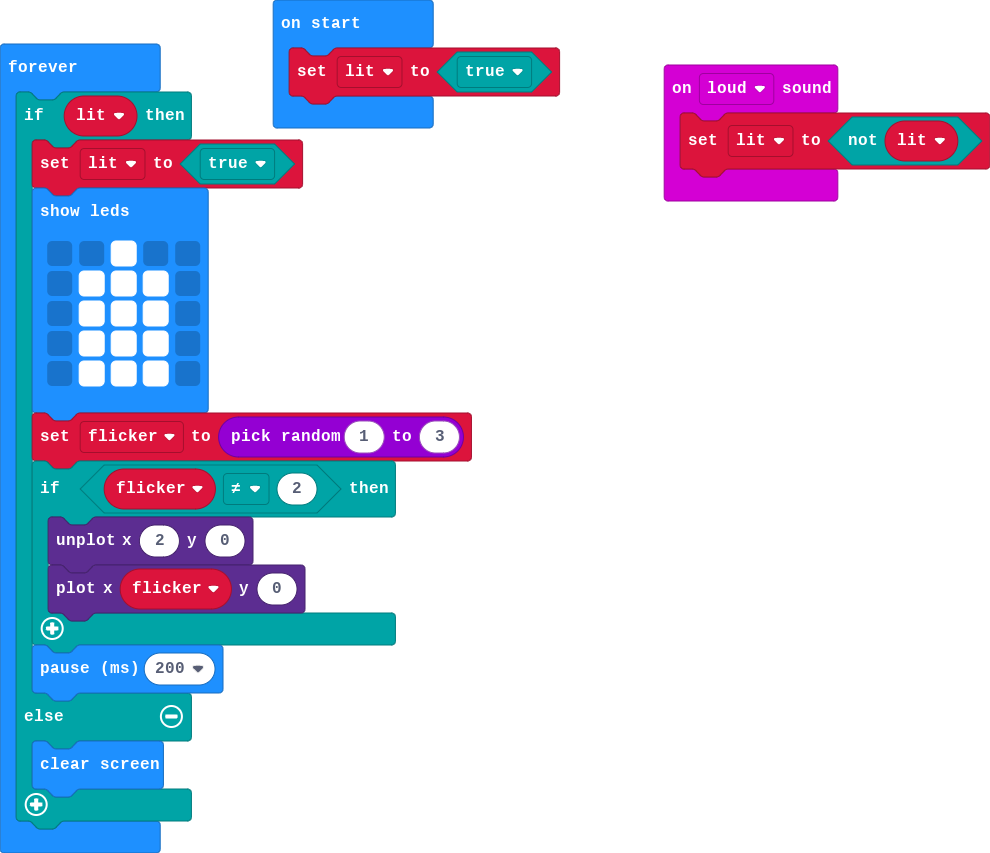
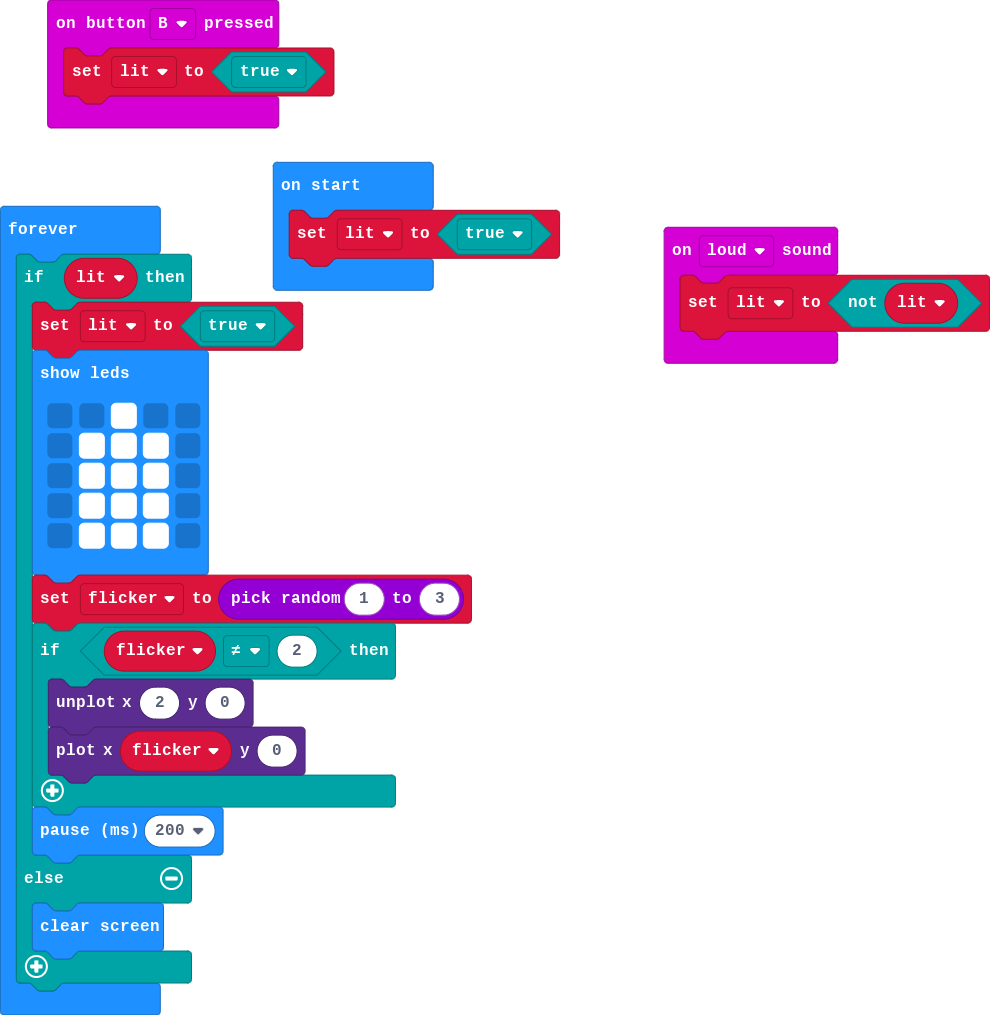
Update main.blocks, main.ts

diff --git a/main.ts b/main.ts
@@ -1,6 +1,9 @@
 input.onSound(DetectedSound.Loud, function () {
     lit = !(lit)
 })
+input.onButtonPressed(Button.B, function () {
+    lit = true
+})
 let flicker = 0
 let lit = false
 lit = true
